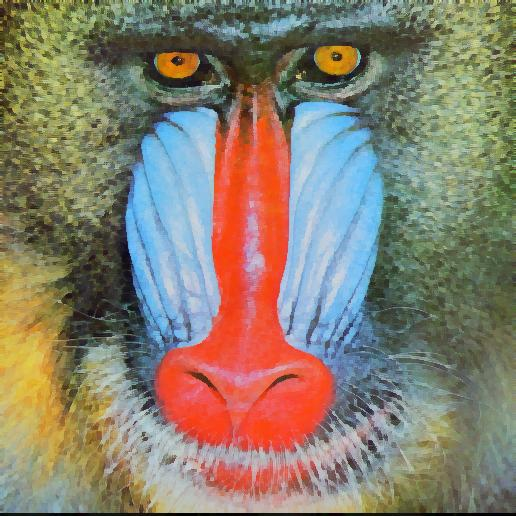
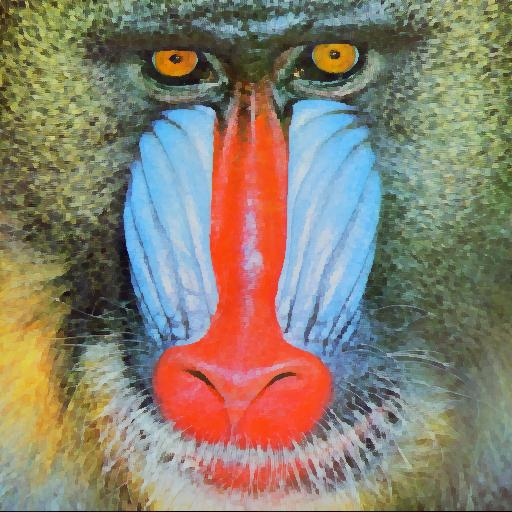
perfecciono filtro, saco el padding de la img final

diff --git a/Archivo.py b/Archivo.py
@@ -39,9 +39,12 @@ for i in range(2, img_copy.shape[0]-2):
         # Calcular el promedio de cada color para los pixeles del cuadrante seleccionado
         color_promedio = np.mean(cuadrante_varianza_minima, axis=(0, 1))
         
-        # Asignar este promedio al pixel actual en la imagen copiada
+        # Asignar este promedio al pixel actual en la imagen ORIGINAL con padding
         img_np_padding[i, j] = color_promedio
 
-# Devolver la imagen copiada modificada
-img_modified = Image.fromarray(img_np_padding)
+# Quitar padding de la imagen con padding
+img_np_final = img_np_padding[2:-2, 2:-2, :]       
+
+# Devolver la imagen final
+img_modified = Image.fromarray(img_np_final)
 img_modified.save("/Users/Nico/Documents/Vs Code UDESA/TP2/Archivo_modified.jpg")
